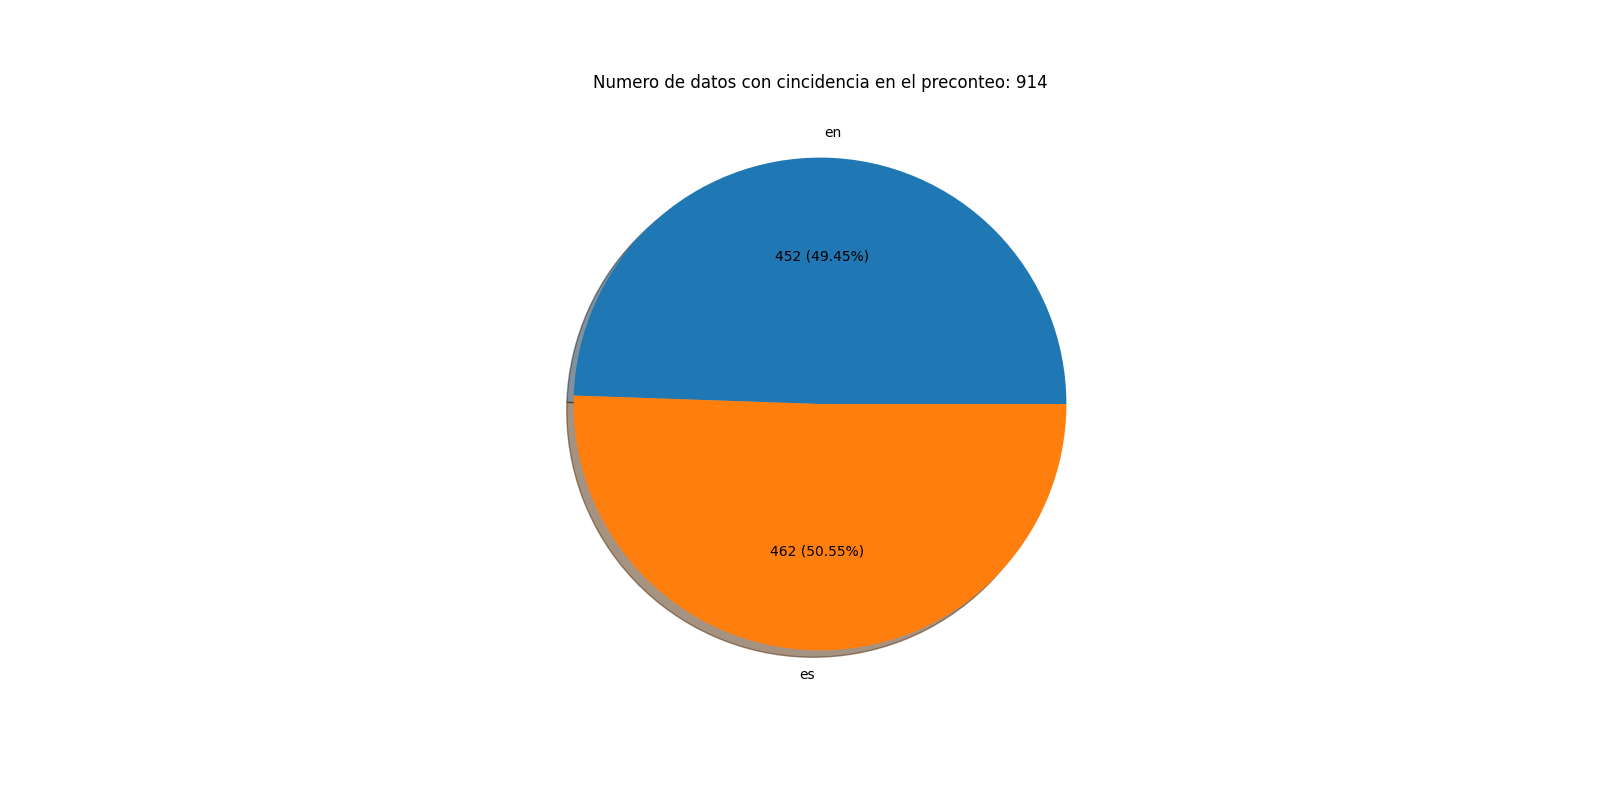
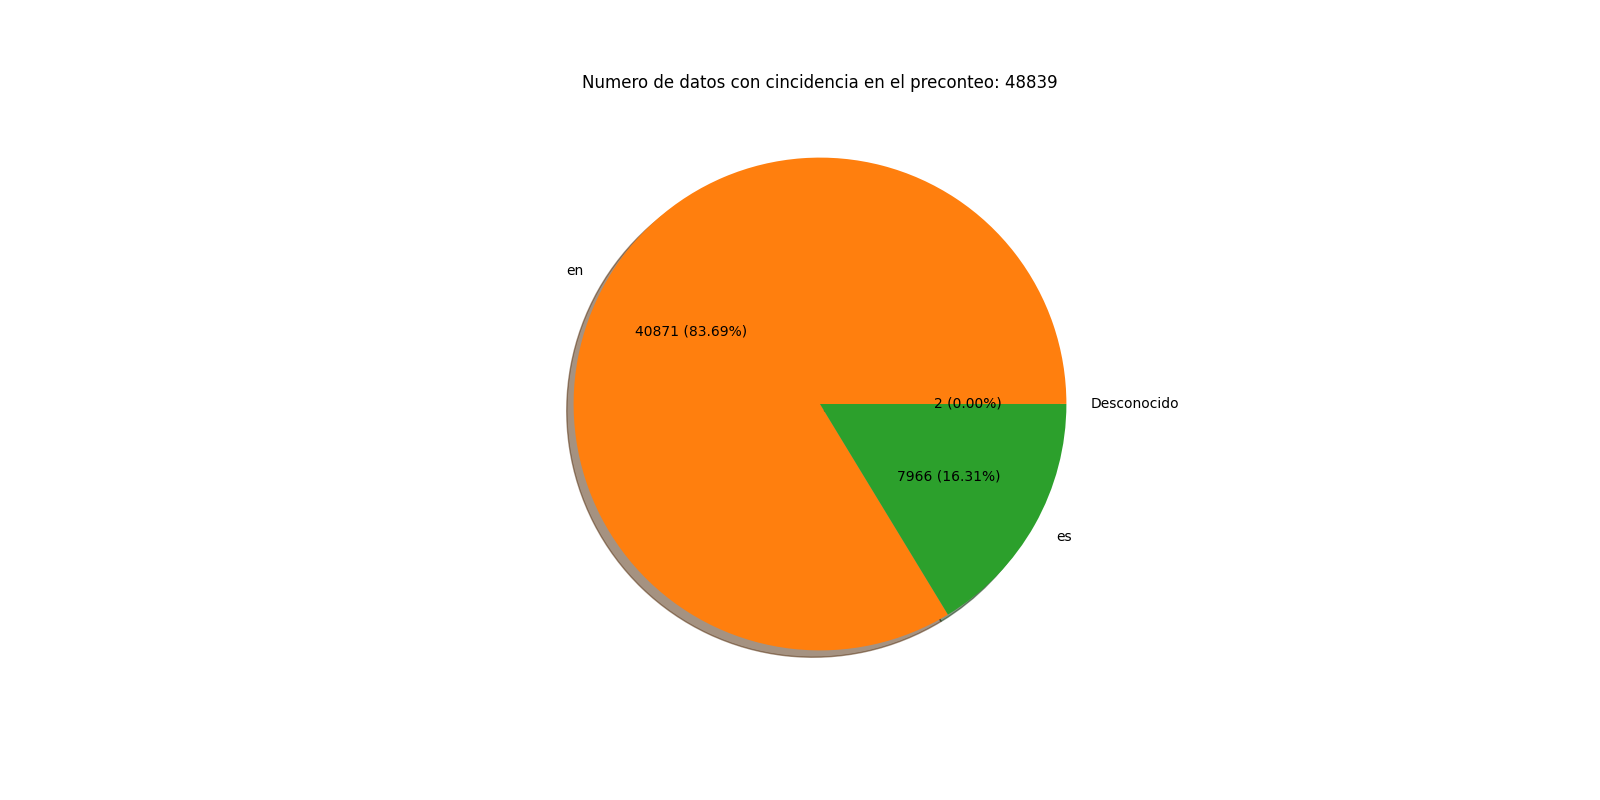
arreglos en el filtrado

Changed region(s): [[0.3438, 0.1875, 0.75, 0.7812], [0.3438, 0.0938, 0.6562, 0.125], [0.5, 0.6875, 0.5312, 0.7188]]

diff --git a/captura_de_datos/filter_data.py b/captura_de_datos/filter_data.py
@@ -1,61 +1,99 @@
 import pandas as pd
+import numpy as np
 import sys, csv
 
 # pip3 install -r requirements.txt <---- por si da flojera instalarlos a mano.
 
 
 output_path1 = "./twitter_data/datos_en_bruto/catched_tweets_originales.csv"
-output_path_m1 = "./twitter_data/datos_para_tageo_mourning/prefiltered_mourning.csv"
-output_path_m2 = "./twitter_data/datos_para_tageo_mourning/prefiltered_not_mourning.csv"
+output_path_m1_en = "./twitter_data/datos_para_tageo_mourning/en_prefiltered_mourning.csv"
+output_path_m1_es = "./twitter_data/datos_para_tageo_mourning/es_prefiltered_mourning.csv"
+output_path_m2_en = "./twitter_data/datos_para_tageo_mourning/en_prefiltered_not_mourning.csv"
+output_path_m2_es = "./twitter_data/datos_para_tageo_mourning/es_prefiltered_not_mourning.csv"
 
-print("\nCargando df principal")
+print("\nCargando data frame principal")
 df = pd.read_csv(output_path1, encoding='utf8', dtype=str, engine='python')
+df['mourning'] = np.nan
 
 tags_muerte = [
-    'mourning', ' rip ', 'rest in peace', 'glory of god', 'cry for the departure', 'luto', 'descansa en paz',
-    'gloria de dios', 'lloran por la pertida', 'llorar por la partida', 'god be with you', 'que dios esté contigo',
-    'sorry for your absence', 'lamento tu ausencia', 'no te preocupes por las lágrimas que derramas en su nombre',
-    'lágrimas de dolor', 'tears of pain', 'rezo porque estés en el reino de dios',
+    'mourning', 'death', 'muerte', ' rip ', 'rest in peace', 'glory of god', 'cry for the departure', 'luto',
+    'descansa en paz', 'gloria de dios', 'lloran por la pertida', 'llorar por la partida', 'god be with you',
+    'que dios esté contigo', 'sorry for your absence', 'lamento tu ausencia',
+    'no te preocupes por las lágrimas que derramas en su nombre',
+    'lágrimas de dolor', 'tears of pain',
+    'rezo porque estés en el reino de dios',
+    'i will see you again in the kingdom of god',
     'i pray for you to be in the kingdom of god',
     'nos veremos de nuevo en el reino de dios',
-    'i will see you again in the kingdom of god'
 ]
 
-print("Escribiendo archivos secundarios")
-df_mourning = pd.DataFrame(columns=df.columns)
-df_no_mourning = pd.DataFrame(columns=df.columns)
-df_mourning.to_csv(output_path_m1, index=False, encoding="utf-8")
-df_no_mourning.to_csv(output_path_m2, index=False, encoding="utf-8")
+print("Escribiendo archivos complementarios")
 
-del df_mourning, df_no_mourning
-csv_file1 = open(output_path_m1, 'a', encoding="utf-8")
-csv_file2 = open(output_path_m2, 'a', encoding="utf-8")
-writer1 = csv.writer(csv_file1)
-writer2 = csv.writer(csv_file2)
+df_template = pd.DataFrame(columns=df.columns)
+df_template.to_csv(output_path_m1_en, index=False, encoding="utf-8")
+df_template.to_csv(output_path_m1_es, index=False, encoding="utf-8")
+df_template.to_csv(output_path_m2_en, index=False, encoding="utf-8")
+df_template.to_csv(output_path_m2_es, index=False, encoding="utf-8")
+
+del df_template
+
+csv_m1_en = open(output_path_m1_en, 'a', encoding="utf-8")
+csv_m1_es = open(output_path_m1_es, 'a', encoding="utf-8")
+csv_m2_en = open(output_path_m2_en, 'a', encoding="utf-8")
+csv_m2_es = open(output_path_m2_es, 'a', encoding="utf-8")
+
+writer1 = csv.writer(csv_m1_en)
+writer2 = csv.writer(csv_m1_es)
+writer3 = csv.writer(csv_m2_en)
+writer4 = csv.writer(csv_m2_es)
 
 print("Iniciando proceso de filtrado")
 for i, row in df.iterrows():
     sys.stdout.write("\rFiltrado completado al " + str(round(((i + 1) / (df.shape[0])) * 100, 2)) + "%")
     sys.stdout.flush()
+    language = df.at[i, 'lang']
     text = str(df.at[i, 'text'])
+    languages_list = ['en', 'es']
     if any(word in text for word in tags_muerte):
-        writer1.writerow(df.iloc[i])
+        if type(language) is str and language in languages_list:
+            if str(language) == 'en':
+                writer1.writerow(df.iloc[i])
+            elif str(language) == 'es':
+                writer2.writerow(df.iloc[i])
     else:
-        writer2.writerow(df.iloc[i])
+        if type(language) is str and language in languages_list:
+            if str(language) == 'en':
+                writer3.writerow(df.iloc[i])
+            elif str(language) == 'es':
+                writer4.writerow(df.iloc[i])
 
-csv_file1.close()
-csv_file2.close()
+csv_m1_en.close()
+csv_m1_es.close()
+csv_m2_en.close()
+csv_m2_es.close()
+
 print("\nOrdenando datos filtrados")
 
 del df, writer1, writer2
 
-df_mourning = pd.read_csv(output_path_m1, encoding='utf8', dtype=str, engine='python')
-df_mourning.sort_values('id')
-df_mourning.to_csv(output_path_m1, index=False, encoding="utf-8")
-del df_mourning
+df = pd.read_csv(output_path_m1_es, encoding='utf8', dtype=str, engine='python')
+df.sort_values('id')
+df.to_csv(output_path_m1_es, index=False, encoding="utf-8")
+del df
 
-df_no_mourning = pd.read_csv(output_path_m2, encoding='utf8', dtype=str, engine='python')
-df_no_mourning.sort_values('id')
-df_no_mourning.to_csv(output_path_m2, index=False, encoding="utf-8")
-del df_no_mourning
+df = pd.read_csv(output_path_m1_en, encoding='utf8', dtype=str, engine='python')
+df.sort_values('id')
+df.to_csv(output_path_m1_en, index=False, encoding="utf-8")
+del df
+
+df = pd.read_csv(output_path_m2_es, encoding='utf8', dtype=str, engine='python')
+df.sort_values('id')
+df.to_csv(output_path_m2_es, index=False, encoding="utf-8")
+del df
+
+df = pd.read_csv(output_path_m2_en, encoding='utf8', dtype=str, engine='python')
+df.sort_values('id')
+df.to_csv(output_path_m2_en, index=False, encoding="utf-8")
+del df
+
 print("Filtrado finalizado")

diff --git a/captura_de_datos/data_analysis.py b/captura_de_datos/data_analysis.py
@@ -9,13 +9,15 @@ usar_muestra = 0
 originales = 'originales'  # <---- originales o arregaldos
 
 tags_muerte = [
-    'mourning', ' rip ', 'rest in peace', 'glory of god', 'cry for the departure', 'luto', 'descansa en paz',
-    'gloria de dios', 'lloran por la pertida', 'llorar por la partida', 'god be with you', 'que dios esté contigo',
-    'sorry for your absence', 'lamento tu ausencia', 'no te preocupes por las lágrimas que derramas en su nombre',
-    'lágrimas de dolor', 'tears of pain', 'rezo porque estés en el reino de dios',
+    'mourning', 'death', 'muerte', ' rip ', 'rest in peace', 'glory of god', 'cry for the departure', 'luto',
+    'descansa en paz', 'gloria de dios', 'lloran por la pertida', 'llorar por la partida', 'god be with you',
+    'que dios esté contigo', 'sorry for your absence', 'lamento tu ausencia',
+    'no te preocupes por las lágrimas que derramas en su nombre',
+    'lágrimas de dolor', 'tears of pain',
+    'rezo porque estés en el reino de dios',
+    'i will see you again in the kingdom of god',
     'i pray for you to be in the kingdom of god',
     'nos veremos de nuevo en el reino de dios',
-    'i will see you again in the kingdom of god'
 ]
 
 output_path1 = "./twitter_data/datos_en_bruto/catched_tweets_originales.csv"
